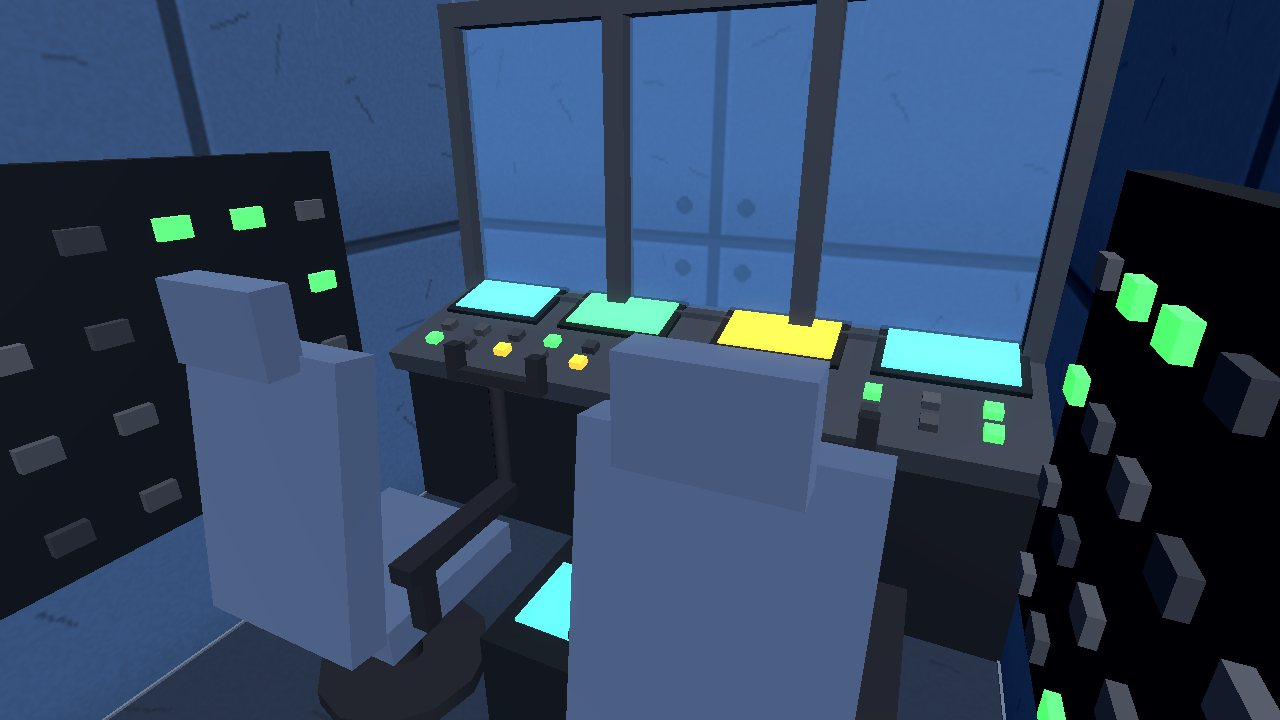
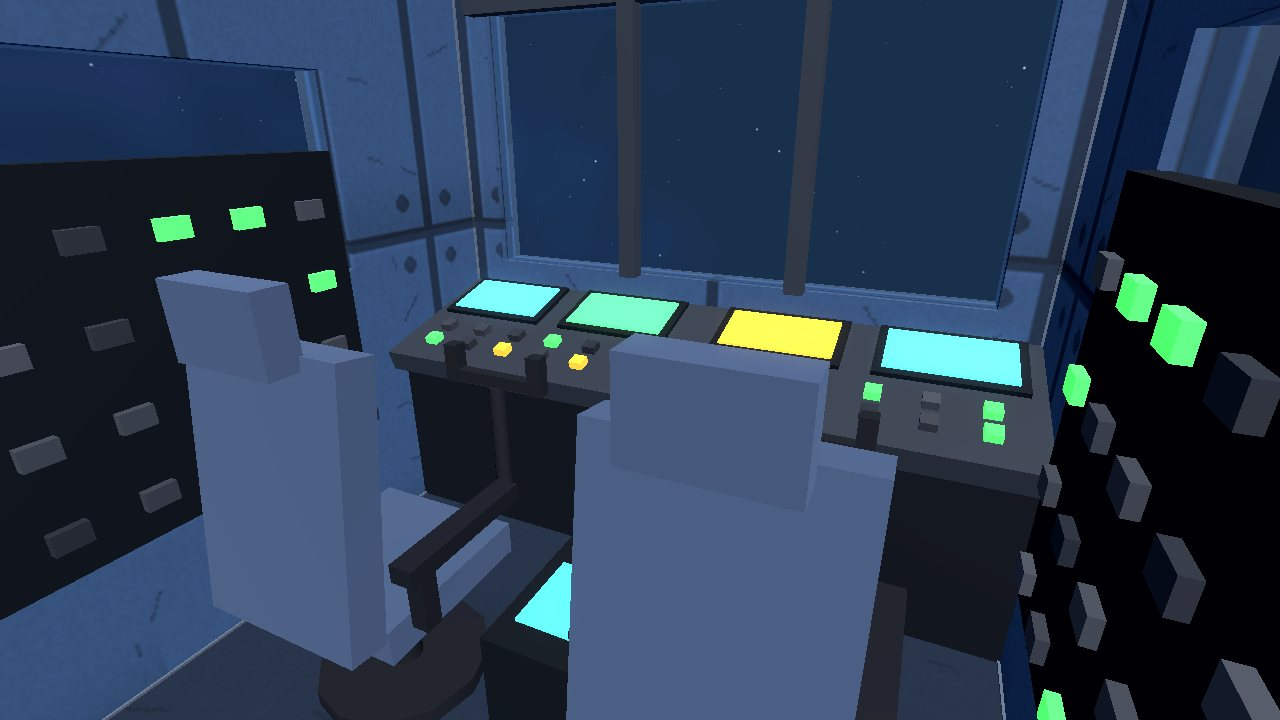
Cockpit gets real windows: a windscreen and two side windows cut into the hull
Claude-Session: https://claude.ai/code/session_017WQZxixKYwD8gqsFUSbatN

Changed region(s): [[0.3125, 0.0, 1.0, 0.5194], [0.0, 0.0611, 0.25, 0.2444]]

diff --git a/site/index.html b/site/index.html
@@ -126,8 +126,12 @@
         <figcaption><strong>The dock.</strong> Your starting world decides which yard you begin at. The shipyard opens from here.</figcaption>
       </figure>
       <figure>
+        <button class="shot" data-full="img/cockpit-outside.jpg" data-cap="The cockpit from outside." aria-label="Open the cockpit exterior full size"><img src="img/cockpit-outside.jpg" width="1280" height="720" loading="lazy" alt="The cockpit module from outside, with a wide windscreen and a small side window showing seats and switches inside."></button>
+        <figcaption><strong>Cockpit, outside.</strong> A wide windscreen and a window each side, so you can see in from the builder.</figcaption>
+      </figure>
+      <figure>
         <button class="shot" data-full="img/cockpit.jpg" data-cap="Inside the cockpit." aria-label="Open the cockpit screenshot full size"><img src="img/cockpit.jpg" width="1280" height="720" loading="lazy" alt="Inside a cockpit: two pilot seats facing a windscreen and a dash with glowing screens and switch rows."></button>
-        <figcaption><strong>Cockpit.</strong> Two seats, a dash of screens and switches, a throttle pedestal.</figcaption>
+        <figcaption><strong>Cockpit.</strong> Two seats, a dash of screens and switches, a throttle pedestal, and stars through the windscreen.</figcaption>
       </figure>
       <figure>
         <button class="shot" data-full="img/engineering.jpg" data-cap="The reactor room." aria-label="Open the engineering screenshot full size"><img src="img/engineering.jpg" width="1280" height="720" loading="lazy" alt="The engineering room: a glowing reactor core beside a wall of control cabinets with indicator lights."></button>
